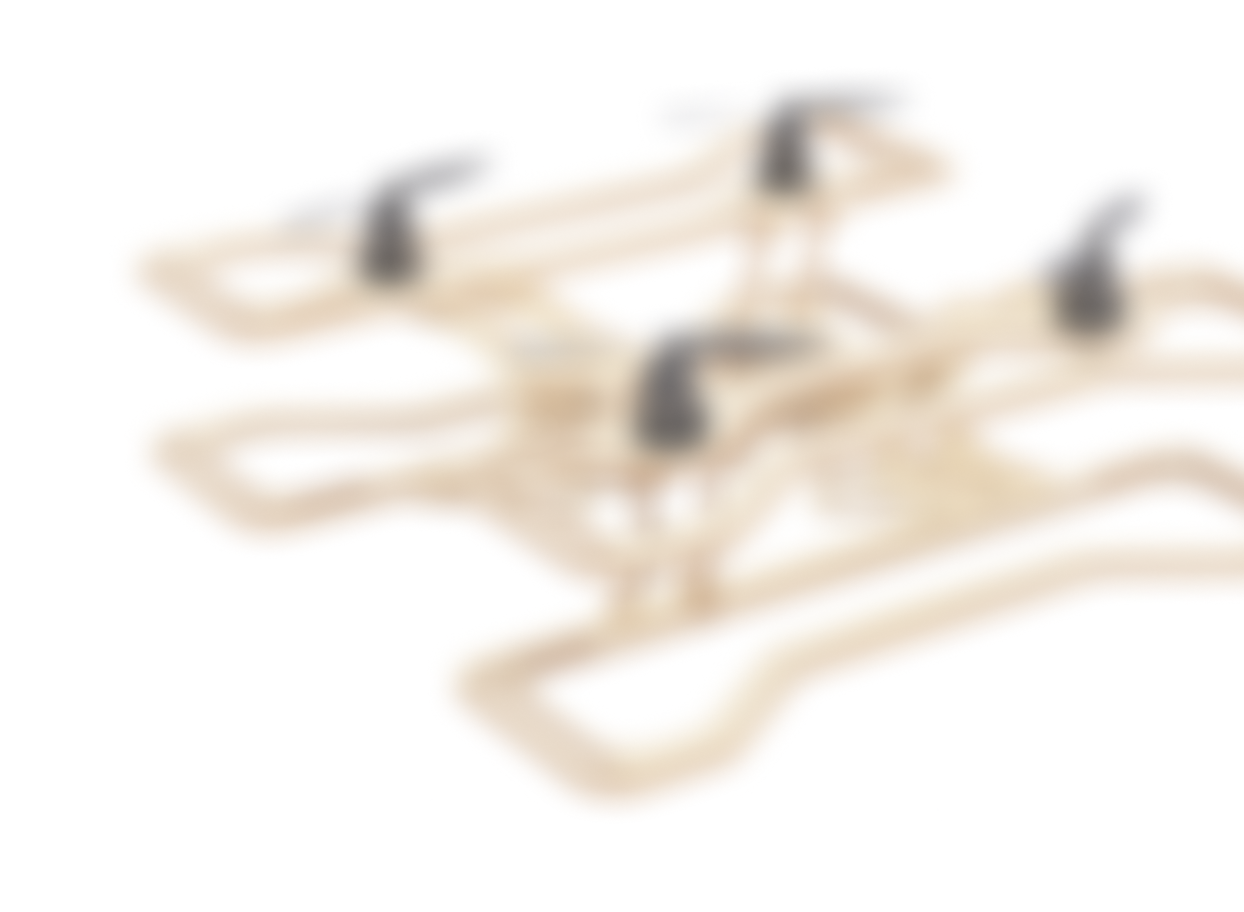
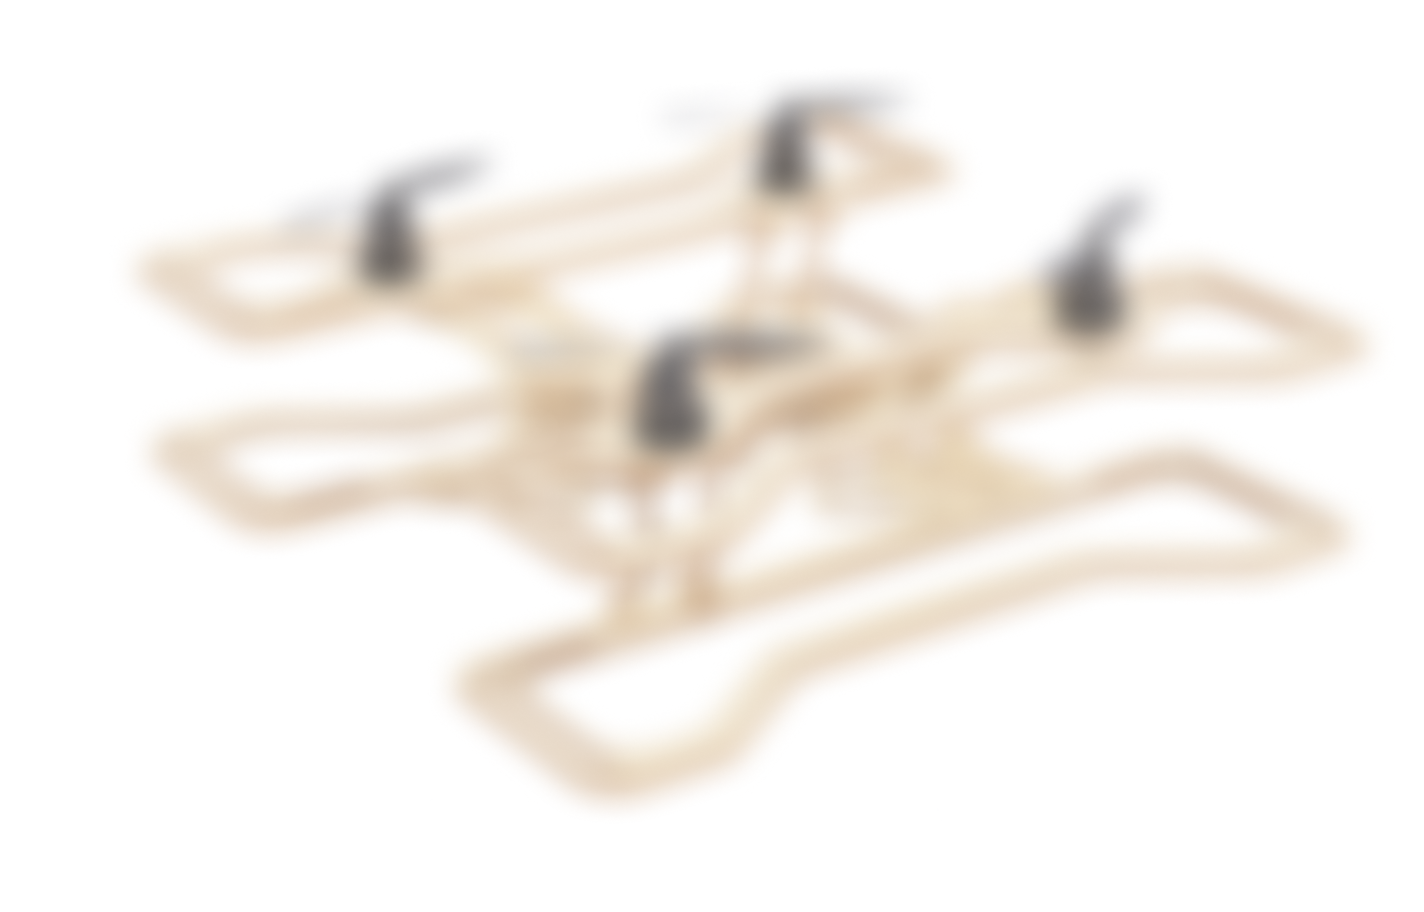
fix: hero drones overflow naturally, match reference layout
- Section: overflow-hidden → overflow-x-clip (allow vertical overflow)
- Container: absolute + overflow-visible (no clipping)
- web_1 (front): 120% width, right: -25%, dominates right half
- web_2 (middle): 60% width, right: -15%, semi-transparent
- web_3 (back): 40% width, right: -20%, blurred + faded
- All images use pointer-events-none, no dragging

diff --git a/apps/web/src/pages/Home/sections/hero/HeroDrone3D.tsx b/apps/web/src/pages/Home/sections/hero/HeroDrone3D.tsx
@@ -1,47 +1,64 @@
 /**
- * Hero drone display: 3 layered drone images with floating animations.
- * Front drone (web_1) is largest, middle (web_2) smaller, back (web_3) smallest.
- * Each has a unique float pattern: vertical bob + slow horizontal sway.
+ * Hero drone display: 3 layered PNG images creating depth illusion.
+ * Images overflow naturally beyond container — no clipping.
+ *
+ * Layout (matching reference):
+ * - web_3: top-right corner, small, faded, partially off-screen
+ * - web_2: middle-right, medium, slightly faded
+ * - web_1: right-center to bottom-right, large, sharp, dominant
  */
-
-const drones = [
-  {
-    src: '/resource/picture/UI/web_3.png',
-    alt: '远处无人机',
-    // Back: smallest, top-right, most blur
-    className: 'absolute top-0 right-0 w-[35%] opacity-50 blur-[1px]',
-    style: { animation: 'droneFloat3 7s ease-in-out infinite' },
-  },
-  {
-    src: '/resource/picture/UI/web_2.png',
-    alt: '中间无人机',
-    // Middle: medium size, center-right
-    className: 'absolute top-[15%] right-[5%] w-[55%] opacity-75',
-    style: { animation: 'droneFloat2 6s ease-in-out infinite' },
-  },
-  {
-    src: '/resource/picture/UI/web_1.png',
-    alt: '主无人机',
-    // Front: largest, bottom-center-right, sharpest
-    className: 'absolute bottom-0 right-[-5%] w-[85%]',
-    style: { animation: 'droneFloat1 5s ease-in-out infinite' },
-  },
-]
 
 export function HeroDrone3D() {
   return (
-    <div className="relative w-full h-full min-h-[300px]">
-      {drones.map((drone, i) => (
-        <img
-          key={i}
-          src={drone.src}
-          alt={drone.alt}
-          className={drone.className}
-          style={drone.style}
-          loading={i === 2 ? 'eager' : 'lazy'}
-          draggable={false}
-        />
-      ))}
+    <div className="absolute inset-0 overflow-visible">
+      {/* Back drone — small, top-right, faded */}
+      <img
+        src="/resource/picture/UI/web_3.png"
+        alt=""
+        className="absolute pointer-events-none select-none"
+        style={{
+          width: '40%',
+          top: '-15%',
+          right: '-20%',
+          opacity: 0.35,
+          filter: 'blur(2px)',
+          animation: 'droneFloat3 7s ease-in-out infinite',
+        }}
+        loading="lazy"
+        draggable={false}
+      />
+
+      {/* Middle drone — medium, right side upper area */}
+      <img
+        src="/resource/picture/UI/web_2.png"
+        alt=""
+        className="absolute pointer-events-none select-none"
+        style={{
+          width: '60%',
+          top: '-5%',
+          right: '-15%',
+          opacity: 0.6,
+          filter: 'blur(0.5px)',
+          animation: 'droneFloat2 6s ease-in-out infinite',
+        }}
+        loading="lazy"
+        draggable={false}
+      />
+
+      {/* Front drone — large, dominant, sharp */}
+      <img
+        src="/resource/picture/UI/web_1.png"
+        alt="FlightWoodX 木质无人机"
+        className="absolute pointer-events-none select-none"
+        style={{
+          width: '120%',
+          top: '5%',
+          right: '-25%',
+          animation: 'droneFloat1 5s ease-in-out infinite',
+        }}
+        loading="eager"
+        draggable={false}
+      />
 
       <style>{`
         @keyframes droneFloat1 {

diff --git a/apps/web/src/pages/Home/sections/HeroSection.tsx b/apps/web/src/pages/Home/sections/HeroSection.tsx
@@ -36,7 +36,7 @@ export function HeroSection() {
 
   return (
     <>
-      <section className="relative min-h-screen bg-paper-50 overflow-hidden">
+      <section className="relative min-h-screen bg-paper-50 overflow-x-clip">
         <div className="mx-auto max-w-6xl px-4 sm:px-6 lg:px-8">
           <div className="grid min-h-[calc(100vh-72px)] items-center gap-12 pt-[72px] pb-16 lg:grid-cols-[55%_45%] lg:gap-8">
 
@@ -131,8 +131,8 @@ export function HeroSection() {
               </AnimatedEntry>
             </div>
 
-            {/* Right column: 3D drone */}
-            <AnimatedEntry delay={300} className="relative flex items-center justify-center lg:h-[500px]">
+            {/* Right column: drone images - overflow allowed */}
+            <AnimatedEntry delay={300} className="relative lg:h-[600px]">
               <HeroDrone3D />
             </AnimatedEntry>
           </div>
